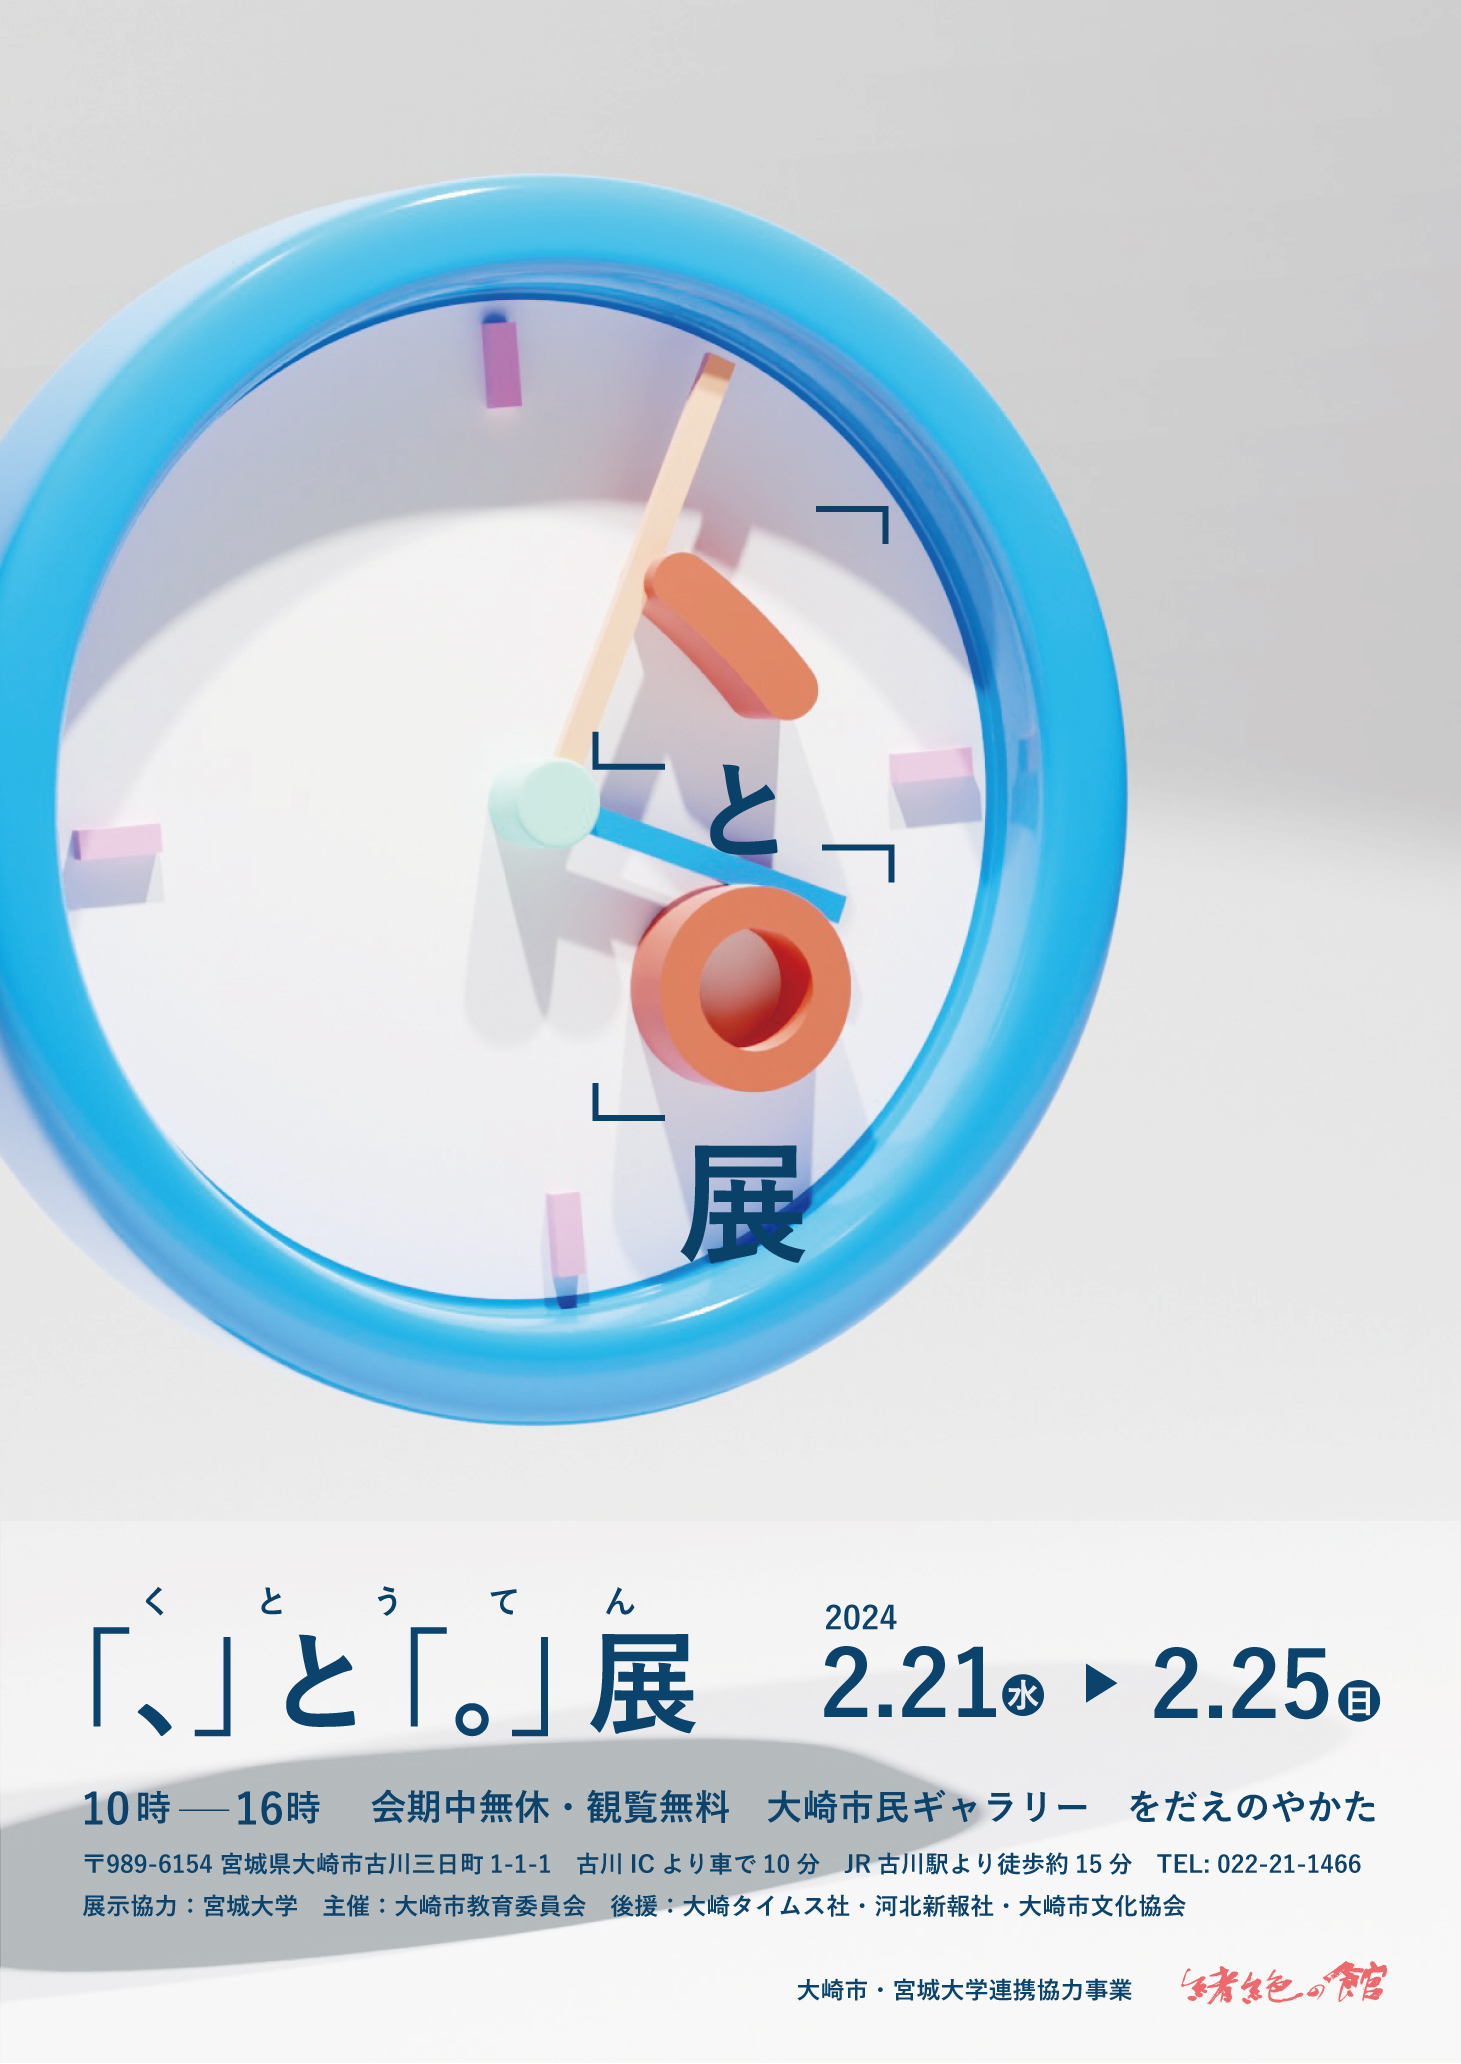
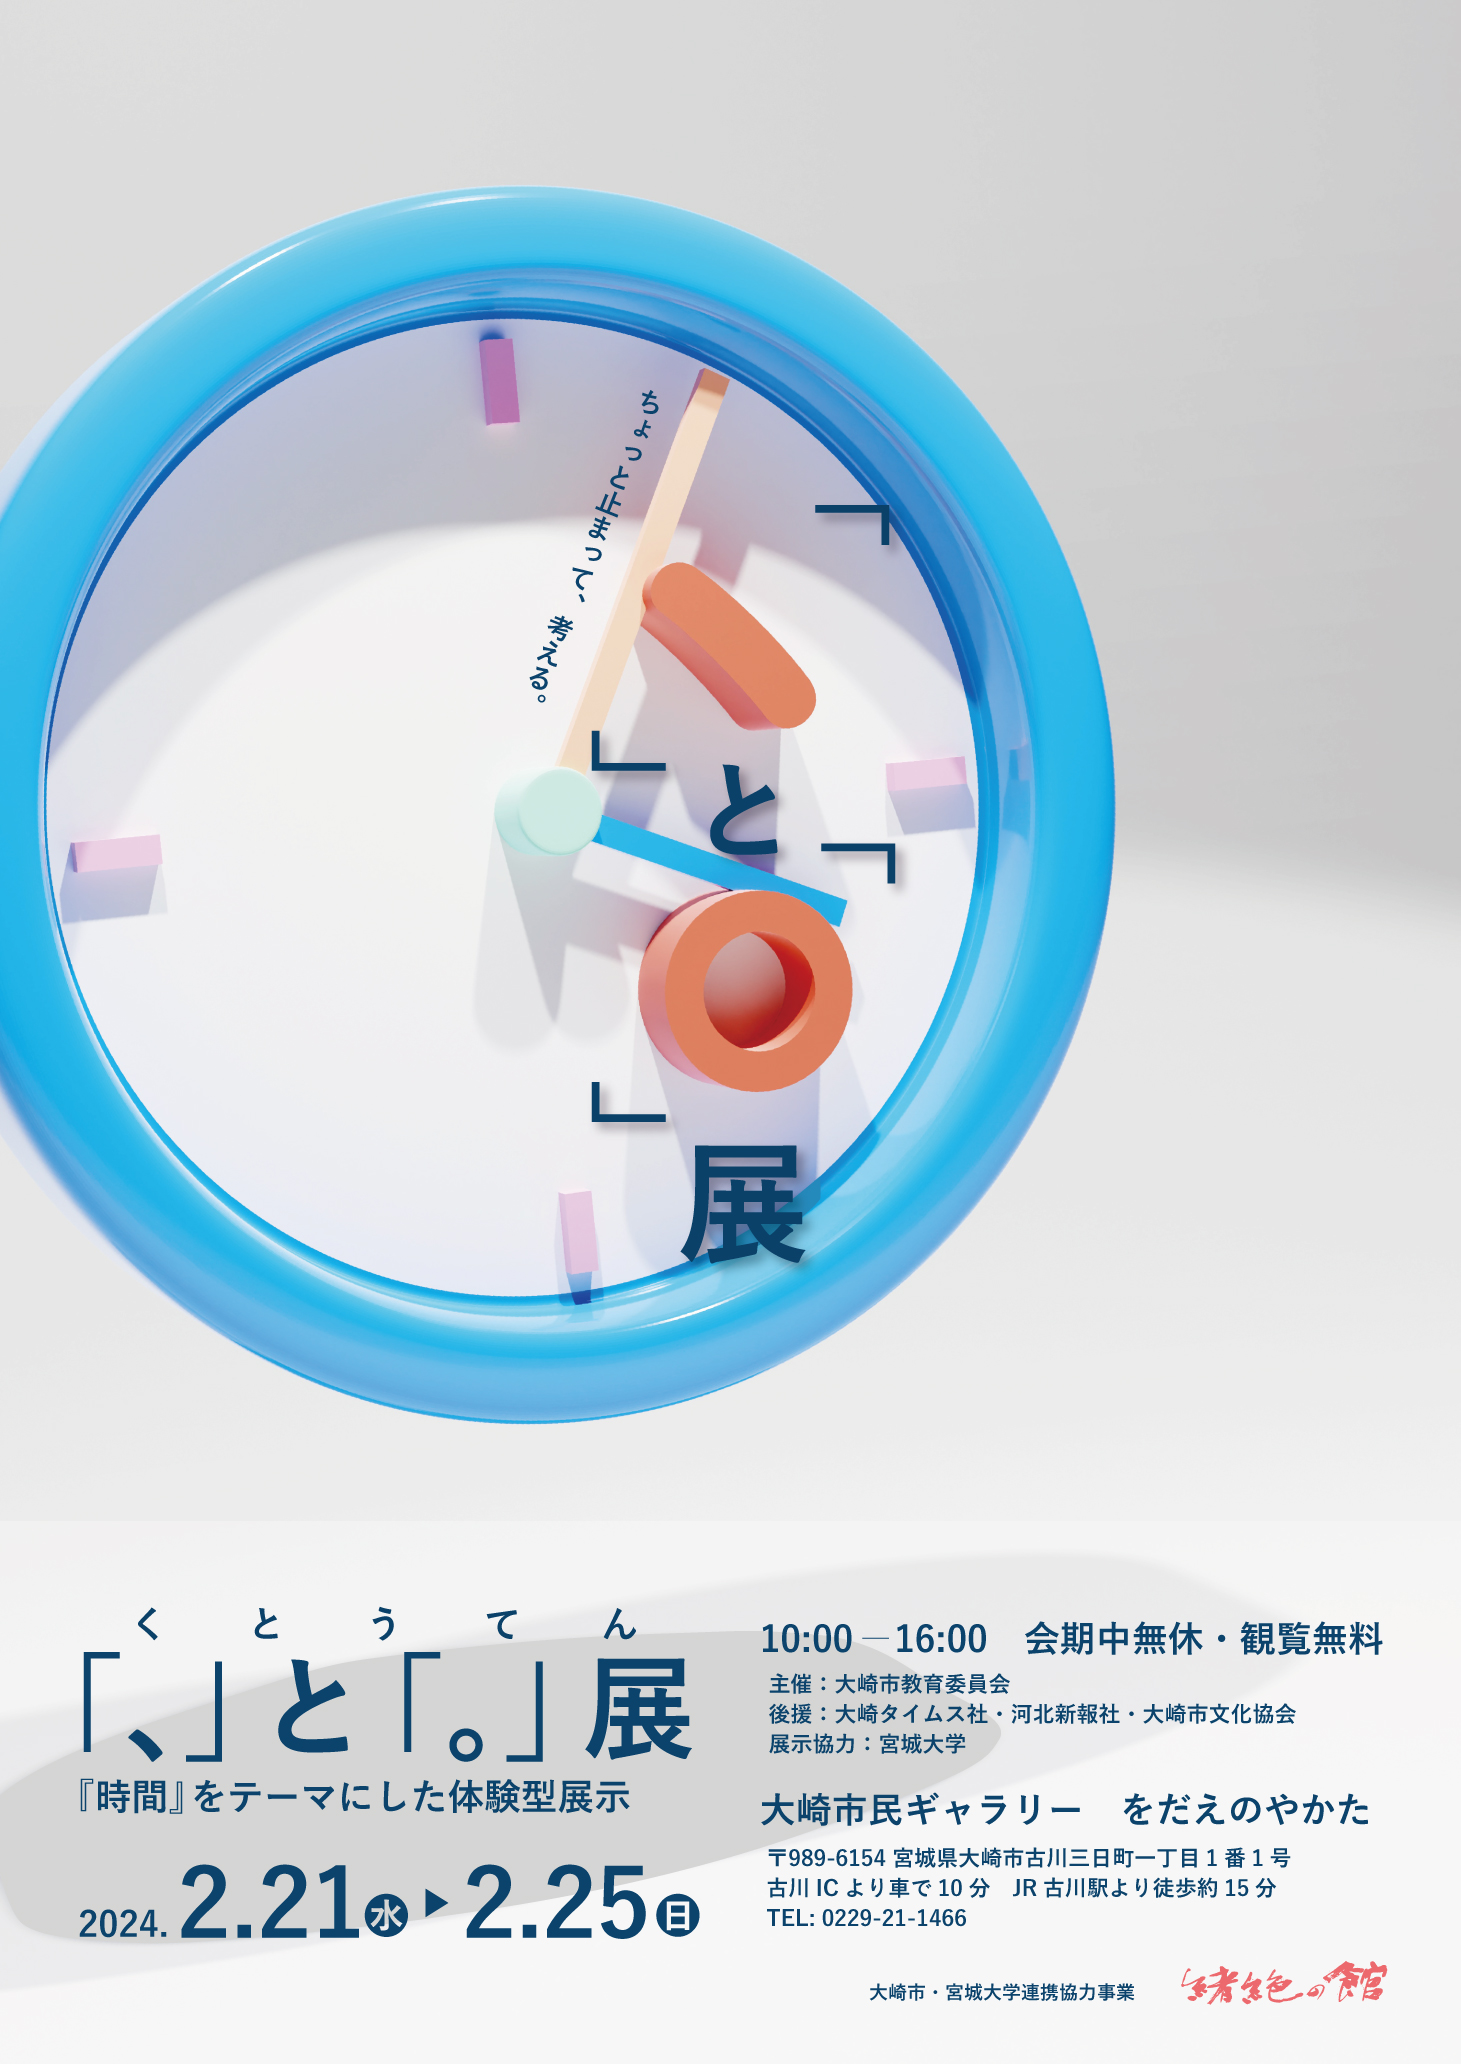
素材フォルダを用途別に分別。確実に使用しない素材を削除

diff --git a/index.html b/index.html
@@ -31,15 +31,16 @@
   </head>
 
   <body onload="init()">
-    <header></header>
     <body>
       <main>
-        <div>
-          <img src="/img/main-visual.png" alt="" />
+        <div class="">
+          <div class="main_visual">
+            <img src="/img/main-visual.png" alt="" />
+          </div>
         </div>
         <div class="mainbox" id="abstract">
           <div class="wrapper">
-            <h2 class="font_bold">、と。展 (くとうてん)</h2>
+            <h2 class="font_bold">「、」と「。」展 (くとうてん)</h2>
 
             <div class="wrapper_exptitle">
               <div class="clm2_left">
@@ -56,8 +57,9 @@
                 </ul>
 
                 <p class="text_justify text_S">
-                  2023年度開催の「ゆらめくあわい」に引き続き、今年度も大崎市と宮城大学の連携協力事業、「、と。展」を開催します。<br />
-                  価値創造デザイン学類の学生が考案・制作した体験型メディアアートを、大崎市民ギャラリー「緒絶の館」に展示します。展示のテーマは、『人も、時間も、モノも、ちょっと止まってひとやすみ』。
+                  2023年度開催の「ゆらめくあわい」に引き続き、今年度も大崎市と宮城大学の連携協力事業、『「、」と「。」展』を開催します。<br />
+                  価値創造デザイン学類の学生が考案・制作した体験型メディアアートを、大崎市民ギャラリー「緒絶の館」に展示します。<br />
+                  展示のテーマは、『人も、時間も、モノも、ちょっと止まってひとやすみ』。
                 </p>
               </div>
 
@@ -95,17 +97,63 @@
         >
           <div class="wrapper">
             <h2 class="font_bold">展示作品</h2>
-            <p>ここに会場マップを入れる</p>
             <p>
-              <img src="img/map.png" usemap="#ImageMap" alt="会場マップ" style="width: 125%; margin: 0 -12.5%;">
+              <img
+                src="img/map.png"
+                usemap="#ImageMap"
+                alt="会場マップ"
+                style="width: 125%; margin: 0 -12.5%"
+              />
               <map name="ImageMap">
-                <area shape="rect" coords="62,281,180,415" href="img/pop-blow.png" alt="" data-fancybox="gallery"/>
-                <area shape="rect" coords="96,125,215,258" href="img/pop-color.png" alt="" data-fancybox="gallery"/>
-                <area shape="rect" coords="241,45,362,198" href="img/pop-control.png" alt="" data-fancybox="gallery"/>
-                <area shape="rect" coords="372,45,495,196" href="img/pop-link.png" alt="" data-fancybox="gallery"/>
-                <area shape="rect" coords="516,45,695,181" href="img/pop-memory.png" alt="" data-fancybox="gallery"/>
-                <area shape="rect" coords="371,333,643,449" href="img/pop-blow.png" alt="" data-fancybox="gallery"/>
-                <area shape="rect" coords="801,47,961,526" href="img/pop-color.png" alt="" data-fancybox="gallery"/>
+                <area
+                  shape="rect"
+                  coords="62,281,180,415"
+                  href="img/pop-blow.png"
+                  alt=""
+                  data-fancybox="gallery"
+                />
+                <area
+                  shape="rect"
+                  coords="96,125,215,258"
+                  href="img/pop-color.png"
+                  alt=""
+                  data-fancybox="gallery"
+                />
+                <area
+                  shape="rect"
+                  coords="241,45,362,198"
+                  href="img/pop-control.png"
+                  alt=""
+                  data-fancybox="gallery"
+                />
+                <area
+                  shape="rect"
+                  coords="372,45,495,196"
+                  href="img/pop-link.png"
+                  alt=""
+                  data-fancybox="gallery"
+                />
+                <area
+                  shape="rect"
+                  coords="516,45,695,181"
+                  href="img/pop-memory.png"
+                  alt=""
+                  data-fancybox="gallery"
+                />
+                <area
+                  shape="rect"
+                  coords="371,333,643,449"
+                  href="img/pop-blow.png"
+                  alt=""
+                  data-fancybox="gallery"
+                />
+                <area
+                  shape="rect"
+                  coords="801,47,961,526"
+                  href="img/pop-color.png"
+                  alt=""
+                  data-fancybox="gallery"
+                />
               </map>
             </p>
             <div class="wrapper_exptitle"></div>

diff --git a/css/style.css b/css/style.css
@@ -28,12 +28,9 @@ header .wrapper {
 
 .main_visual {
   width: 100%;
-  height: calc(100vh - 100px);
-  background-image: url(../img/main-visual.png);
-  background-size: cover;
-  background-position: top;
-  background-repeat: no-repeat;
-  margin-bottom: auto;
+}
+.main_visual img{
+  width: 100%;
 }
 
 main {
@@ -101,7 +98,7 @@ a:visited {
 .mainbox_large {
   width: 100%;
   display: flex;
-  flex-direction: column;
+  /* flex-direction: column; */
   justify-content: center;
 }
 
@@ -137,8 +134,8 @@ a:visited {
     width: 50%;
   }
   .mainbox {
-    height: 450px;
-    /* height:auto; */
+    /* height: 450px; */
+    height:auto;
   }
 
   .mainbox_large {
